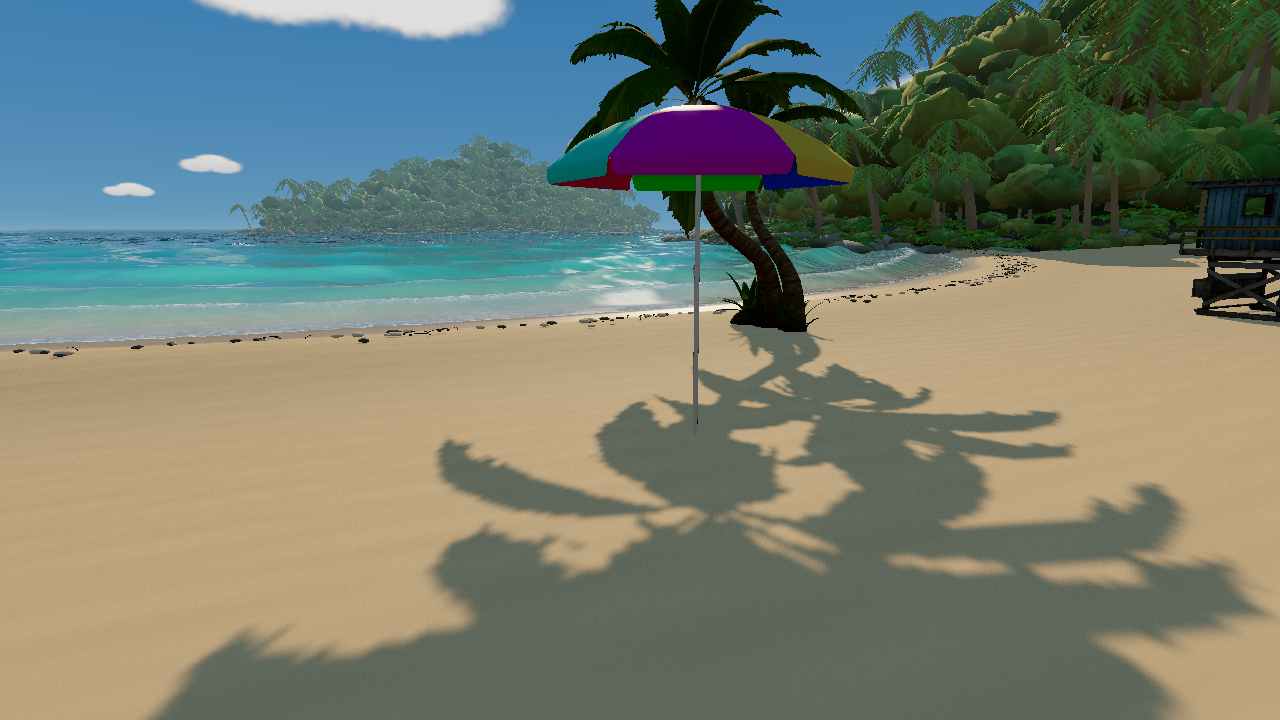
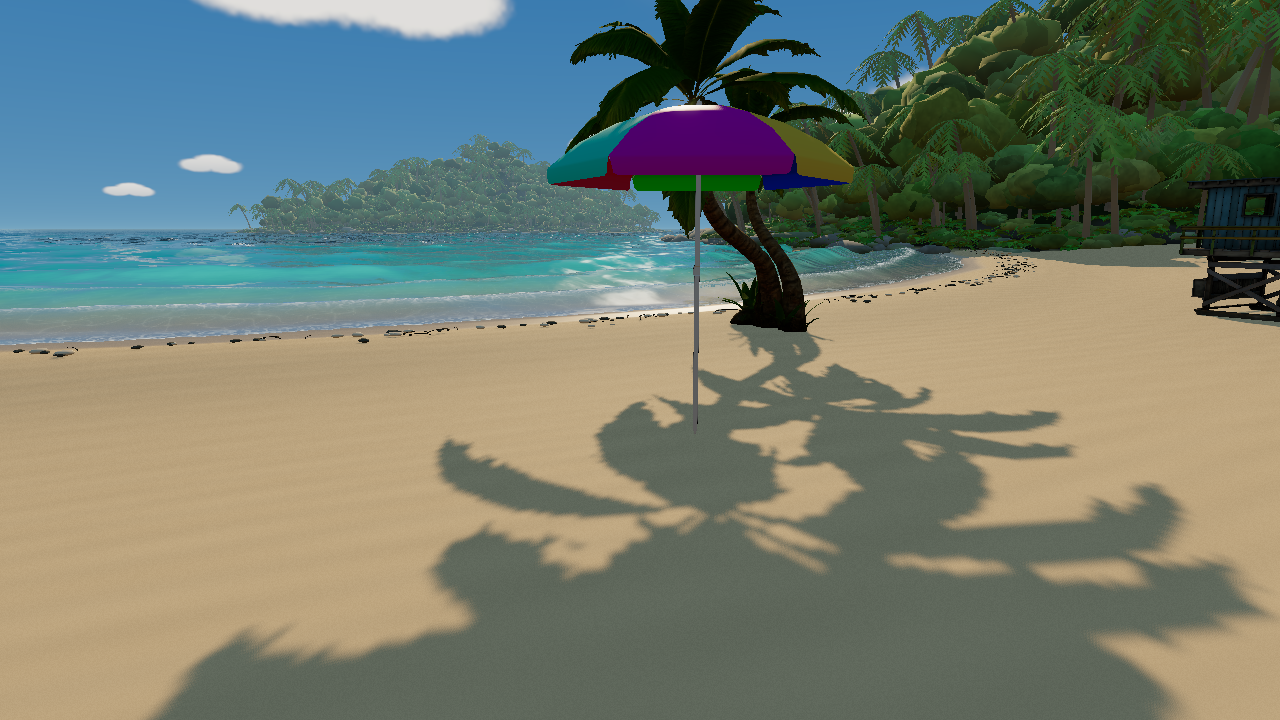
林緣植被依實際形狀擋人（灌木、地被植物、岩塊、樹幹畫進碰撞格）；淺水改半透明，約 1.6 m 內透出沙地與泡水的腳；涉水漣漪改為水面 shader 的細小波紋加碎泡沫，取代固定高度的白色圓環；重拍回歸截圖
Claude-Session: https://claude.ai/code/session_01USRpqyJ3nNu4mbR3gC6di4

Changed region(s): [[0.0, 0.4278, 0.375, 0.4889], [0.5312, 0.3667, 0.5938, 0.4278], [0.7188, 0.3361, 0.75, 0.3667]]

diff --git a/src/explore.js b/src/explore.js
@@ -1,6 +1,7 @@
 import * as T from 'three';
 import { groundHeight } from './terrain.js';
-import { landHeight, shoreClear } from './coast.js';
+import { surfaceHeight, WADE_RINGS } from './water.js';
+import { landHeight, islandHeight, shoreClear } from './coast.js';
 import { loadProps, propRoot } from './props.js';
 import './explore.css';
 
@@ -20,7 +21,9 @@ export function createExplore({ scene, camera, renderer, config, results, group,
   const shoes=[part(pants,-.15,.07,.045,.9,.25,1.35),part(pants,.15,.07,.045,.9,.25,1.35)];
   const arms=[part(skin,-.34,1.03,0,.65,1,.65),part(skin,.34,1.03,0,.65,1,.65)];
   const legs=[part(pants,-.15,.38,0,.85,1.1,.85),part(pants,.15,.38,0,.85,1.1,.85)];
-  const rings=[], ringGeo=new T.RingGeometry(.25,.29,24);for(let i=0;i<10;i++){const m=new T.Mesh(ringGeo,new T.MeshBasicMaterial({color:0xe5ffff,transparent:true,opacity:0,depthWrite:false,side:T.DoubleSide}));m.rotation.x=-Math.PI/2;m.visible=false;scene.add(m);rings.push({mesh:m,age:2});}
+  // Ripples round the legs in the water: the water shader spreads short waves from these points (x, z, time,
+  // strength), the feet in turn while walking, now and then while standing.
+  const wade=Array.from({length:WADE_RINGS},()=>new T.Vector4());let wadeNext=0,wadeFoot=0,waterMesh=null;
   let driven=false,gameCamera=null,groupChanged=null,movementSpeed=0,moveSpeed=0,moveAccel=0;const moveDir={x:0,z:0};
   let hold=false,active=false,photo=false,first=false,muted=false,yaw=.15,pitch=.08,velocityY=0,grounded=true,phase=0,splashTime=0,ringIndex=0,busy=false,desired=group;
   let colliders=[],currentResults=results, audio, gain;
@@ -29,9 +32,10 @@ export function createExplore({ scene, camera, renderer, config, results, group,
   // camera keep the whole-prop boxes in `colliders`.
   const CELL=.2,RADIUS=.26,blockCache=new WeakMap(),blocked=new Map(),key=(i,j)=>i*65536+j;
   const va=new T.Vector3(),vb=new T.Vector3(),vc=new T.Vector3(),vp=new T.Vector3(),instanceMatrix=new T.Matrix4(),world=new T.Matrix4();
-  function rasterise(marker){const cells=new Map();marker.updateMatrixWorld(true);
+  // keep(matrix): which instances of an InstancedMesh to include (all by default).
+  function rasterise(marker,keep=null){const cells=new Map();marker.updateMatrixWorld(true);
     marker.traverse(o=>{if(!o.isMesh||!o.visible)return;const pos=o.geometry.attributes.position,index=o.geometry.index,count=index?index.count:pos.count;
-      for(let n=0;n<(o.isInstancedMesh?o.count:1);n++){world.copy(o.matrixWorld);if(o.isInstancedMesh){o.getMatrixAt(n,instanceMatrix);world.multiply(instanceMatrix);}
+      for(let n=0;n<(o.isInstancedMesh?o.count:1);n++){world.copy(o.matrixWorld);if(o.isInstancedMesh){o.getMatrixAt(n,instanceMatrix);if(keep&&!keep(instanceMatrix))continue;world.multiply(instanceMatrix);}
         for(let t=0;t<count;t+=3){const ia=index?index.getX(t):t,ib=index?index.getX(t+1):t+1,ic=index?index.getX(t+2):t+2;
           va.fromBufferAttribute(pos,ia).applyMatrix4(world);vb.fromBufferAttribute(pos,ib).applyMatrix4(world);vc.fromBufferAttribute(pos,ic).applyMatrix4(world);
           if(Math.max(va.y,vb.y,vc.y)<-.5||Math.min(va.y,vb.y,vc.y)>4)continue;
@@ -39,7 +43,12 @@ export function createExplore({ scene, camera, renderer, config, results, group,
           for(let u=0;u<=steps;u++)for(let v=0;v<=steps-u;v++){vp.copy(va).multiplyScalar(1-(u+v)/steps).addScaledVector(vb,u/steps).addScaledVector(vc,v/steps);
             const h=vp.y-groundHeight(vp.x,vp.z);if(h<.12||h>1.85)continue;const k=key(Math.floor(vp.x/CELL),Math.floor(vp.z/CELL));cells.set(k,Math.max(cells.get(k)??-Infinity,vp.y));}}}});
     return cells;}
-  function rebuildBlocked(){blocked.clear();for(const marker of propRoot.children){if(!blockCache.has(marker))blockCache.set(marker,rasterise(marker));for(const [k,top] of blockCache.get(marker))blocked.set(k,Math.max(blocked.get(k)??-Infinity,top));}}
+  // The headland's plants, rocks and trunks block the same way, by their real shapes: only instances a walker on the
+  // beach can reach (inside the walk area, rooted at most 1.5 m above the sand), rasterised once.
+  let shoreCells=null;
+  function shoreBlocked(){if(shoreCells)return shoreCells;const plants=scene.getObjectByName('island-vegetation');
+    shoreCells=plants?rasterise(plants,m=>{const x=m.elements[12],z=m.elements[14];return x>33&&x<102&&z<29&&islandHeight(x,z)<groundHeight(x,z)+1.5;}):new Map();return shoreCells;}
+  function rebuildBlocked(){blocked.clear();for(const [k,top] of shoreBlocked())blocked.set(k,top);for(const marker of propRoot.children){if(!blockCache.has(marker))blockCache.set(marker,rasterise(marker));for(const [k,top] of blockCache.get(marker))blocked.set(k,Math.max(blocked.get(k)??-Infinity,top));}}
   // Distance from (x,z) to the nearest blocking cell the player is not standing above.
   function clearance(x,z){let best=Infinity;const r=Math.ceil(RADIUS/CELL)+1,ci=Math.floor(x/CELL),cj=Math.floor(z/CELL);
     for(let i=ci-r;i<=ci+r;i++)for(let j=cj-r;j<=cj+r;j++){const top=blocked.get(key(i,j));if(top===undefined||player.y>top+.05)continue;
@@ -92,7 +101,7 @@ export function createExplore({ scene, camera, renderer, config, results, group,
   drag($('#stick'),(x,y)=>{joyX=T.MathUtils.clamp(x/45,-1,1);joyY=T.MathUtils.clamp(y/45,-1,1);$('#stick i').style.transform=`translate(${joyX*30}px,${joyY*30}px)`;},()=>{joyX=joyY=0;$('#stick i').style.transform='';});
   let lastX=0,lastY=0;drag($('#look'),(x,y)=>{look(x-lastX,y-lastY);lastX=x;lastY=y;},()=>{lastX=lastY=0;});
   // Free space, or a move that gets out of a prop the player is already inside (e.g. after a teleport).
-  function allowed(x,z){if(x< -34||x>100||z>27||groundHeight(x,z)<-.65||x>35&&!shoreClear(x,z,RADIUS))return false;const next=clearance(x,z);return next>=RADIUS||next>clearance(player.x,player.z);}
+  function allowed(x,z){if(x< -34||x>100||z>27||groundHeight(x,z)<-.65||x>35&&!shoreClear(x,z))return false;const next=clearance(x,z);return next>=RADIUS||next>clearance(player.x,player.z);}
   function cameraBlocked(p){for(const c of colliders){const b=c.box;if(p.x>b.min.x-.2&&p.x<b.max.x+.2&&p.y>b.min.y-.2&&p.y<b.max.y+.2&&p.z>b.min.z-.2&&p.z<b.max.z+.2)return true;}return false;}
   function update(dt){dt=Math.min(dt,.05);let dx=0,dz=0;
     if(active&&!photo&&!busy&&!driven){const forward=hold?0:Number(keys.has('KeyW')||keys.has('ArrowUp'))-Number(keys.has('KeyS')||keys.has('ArrowDown'))-joyY,side=hold?0:Number(keys.has('KeyD'))-Number(keys.has('KeyA'))+joyX;yaw+=(Number(keys.has('ArrowLeft'))-Number(keys.has('ArrowRight')))*2.2*dt;const amount=Math.hypot(forward,side),norm=Math.max(1,amount),wet=groundHeight(player.x,player.z)<.02,target=amount>.01?(keys.has('ShiftLeft')||keys.has('ShiftRight')?4.5:1.8)*(wet?.42:1)*Math.min(1,amount):0;
@@ -109,7 +118,7 @@ export function createExplore({ scene, camera, renderer, config, results, group,
       if(dt>0)moveSpeed=Math.min(moveSpeed,Math.hypot(dx,dz)/dt+.05);
       // Walking downhill the ground drops faster than gravity pulls; stay snapped unless a jump launched us.
       const ground=groundHeight(player.x,player.z);if(grounded&&player.y-ground<.3){player.y=ground;velocityY=0;}else{velocityY-=9.8*dt;player.y=Math.max(ground,player.y+velocityY*dt);if(player.y===ground){velocityY=0;grounded=true;}else grounded=false;}
-      const moving=Math.hypot(dx,dz);phase+=moving*5;if(moving>.001){avatar.rotation.y=Math.atan2(dx,dz);if(wet&&(splashTime-=dt)<=0){const r=rings[ringIndex++%rings.length];r.age=0;r.mesh.position.set(player.x,.09,player.z);r.mesh.visible=true;splashTime=.22;}}
+      const moving=Math.hypot(dx,dz);phase+=moving*5;if(moving>.001){avatar.rotation.y=Math.atan2(dx,dz);}
       const swing=moving>.001?Math.sin(phase)*.55:0;const blend=1-Math.exp(-18*dt);arms[0].rotation.x=legs[1].rotation.x=T.MathUtils.lerp(arms[0].rotation.x,swing,blend);arms[1].rotation.x=legs[0].rotation.x=-arms[0].rotation.x;
     }
     movementSpeed=dt>0?Math.hypot(dx,dz)/dt:movementSpeed;
@@ -120,7 +129,11 @@ export function createExplore({ scene, camera, renderer, config, results, group,
       camera.position.y=Math.max(camera.position.y,landHeight(camera.position.x,camera.position.z)+.3);camera.lookAt(target);if(gameCamera&&!first)gameCamera.update(dt,player,yaw,pitch);
       let nearest=null,best=4;for(const c of colliders){const d=Math.hypot(Math.max(c.box.min.x-player.x,0,player.x-c.box.max.x),Math.max(c.box.min.z-player.z,0,player.z-c.box.max.z));if(d<best){best=d;nearest=c;}}
       if(nearest!==lastPoi||group!==lastPoiGroup){lastPoi=nearest;lastPoiGroup=group;poi.textContent=nearest?`${nearest.id} · ${labels[group]}${group==='A'?' · code-generated':` · ${nearest.slot.paths[group].split('/').at(-1)}`}`:'';poi.hidden=!nearest;}
-      for(const r of rings){if(r.age<1){r.age+=dt;r.mesh.scale.setScalar(1+r.age*3);r.mesh.material.opacity=(1-r.age)*.45;}else r.mesh.visible=false;}
+      waterMesh??=scene.getObjectByName('lagoon-water');
+      if(waterMesh?.material.uniforms.wadeRings){const t=waterMesh.material.uniforms.time.value,deep=surfaceHeight(player.x,player.z,t)-groundHeight(player.x,player.z);
+        if(deep>.03&&dt>0&&(splashTime-=dt)<=0){const pace=Math.hypot(moveDir.x,moveDir.z)*movementSpeed,side=wadeFoot++%2?.11:-.11,c=Math.cos(avatar.rotation.y),sn=Math.sin(avatar.rotation.y);
+          wade[wadeNext++%wade.length].set(player.x+c*side,player.z-sn*side,t,Math.min(1,deep*5)*(pace>.2?.55+.2*Math.min(pace,2.5):.3));splashTime=pace>.2?.3:1.1;}
+        for(const r of wade)if(t-r.z>2.4||r.z>t+1e-6)r.w=0;waterMesh.material.uniforms.wadeRings.value.forEach((u,i)=>u.copy(wade[i]));}
     }
   }
   camera.position.set(player.x+1,player.y+3,player.z+5);update(0);

diff --git a/src/water.js b/src/water.js
@@ -98,7 +98,7 @@ vec2 swellState(vec2 p,float t){
 }
 `;
 
-export const WAKE_RINGS=24;
+export const WAKE_RINGS=24,WADE_RINGS=10;
 const grid={xs:null,ds:null};
 function waterGeometry() {
  // Preserve the terrain entirely. Only the water mesh follows the coast, with
@@ -129,6 +129,13 @@ export function createWater(sun) {
  // boat speed; 0 switches it off). A ring of small waves spreads from each; together they draw the V behind the boat (a kinematic wake:
  // circles emitted along the path). Shading only: the surface itself does not move.
  water.material.uniforms.wakeRings={value:Array.from({length:WAKE_RINGS},()=>new THREE.Vector4())};
+ // Ripples round a walker's legs in the water (set by src/explore.js): x, z, time, strength (0 switches it off).
+ // Short waves (about 35 cm) that run out at walking pace and die within a couple of seconds. Shading only.
+ water.material.uniforms.wadeRings={value:Array.from({length:WADE_RINGS},()=>new THREE.Vector4())};
+ // Shallow water is see-through: the real sand and whatever stands in it (legs, the ball, a hull) show under it,
+ // tinted by the water and fading out by about 1.6 m deep. Premultiplied: the shader writes the water's own light
+ // and how much of what lies under it still comes through.
+ water.material.transparent=true;water.material.premultipliedAlpha=true;water.material.depthWrite=true;
  water.material.vertexShader=`
  uniform mat4 textureMatrix;uniform float time;
  varying vec4 mirrorCoord;varying vec4 worldPosition;
@@ -156,7 +163,7 @@ export function createWater(sun) {
  }`;
  water.material.fragmentShader=`
  uniform mat4 textureMatrix;uniform sampler2D mirrorSampler;uniform float time;uniform vec3 eye;uniform vec3 sunDirection;uniform vec3 sunColor;
- uniform vec4 wakeRings[${WAKE_RINGS}];
+ uniform vec4 wakeRings[${WAKE_RINGS}];uniform vec4 wadeRings[${WADE_RINGS}];
  varying vec4 mirrorCoord;varying vec4 worldPosition;varying vec3 vWaveNormal;varying vec2 vWaterRest;
  #include <common>
  #include <fog_pars_fragment>
@@ -191,10 +198,15 @@ export function createWater(sun) {
   vec2 small=fineSlope(worldPosition.xz,distanceToEye)*mix(.25,1.,smoothstep(-1.,6.,coast));
   // Wake ripples: crests about 0.9 m apart; each ring runs out at a third of the boat's speed, so the rings
   // together keep the Kelvin wake's ~19.5° V at any speed. Weaker as they spread and age.
-  vec2 rip=vec2(0.);
+  vec2 rip=vec2(0.);float wadeFoam=0.;
   for(int i=0;i<${WAKE_RINGS};i++){vec4 r=wakeRings[i];if(r.w<=.3)continue;vec2 q=worldPosition.xz-r.xy;float dist=length(q),age=time-r.z;
    float x=dist-min(.34*r.w,3.)*age;if(age<0.||abs(x)>2.||dist<.01)continue;
    float env=clamp((r.w-.3)/2.5,0.,1.)*exp(-x*x*1.4)*exp(-age*.35)/(1.+.12*dist);rip+=q/dist*cos(x*7.)*.55*env;}
+  for(int i=0;i<${WADE_RINGS};i++){vec4 r=wadeRings[i];if(r.w<=0.)continue;vec2 q=worldPosition.xz-r.xy;float dist=length(q),age=time-r.z;
+   float x=dist-.12-.42*age;if(age<0.||age>2.4||abs(x)>.5||dist<.01)continue;
+   float env=r.w*exp(-x*x*16.)*exp(-age*1.1)/(1.+1.5*dist);rip+=q/dist*sin(x*18.)*.6*env;
+   // A broken ring of foam pushed out by the leg, gone within a second.
+   wadeFoam=max(wadeFoam,r.w*exp(-x*x*110.)*exp(-age*2.6)*smoothstep(.25,.55,waterNoise(worldPosition.xz*9.+r.z*7.)));}
   small+=rip;
   vec3 N=normalize(vWaveNormal+vec3(-small.x,0.,-small.y));
   N=mix(N,normalize(vec3(-small.x,1.,-small.y)),smoothstep(-.1,1.,d));
@@ -227,7 +239,9 @@ export function createWater(sun) {
   bottom*=1.+caustic*.14*exp(-depth*.55);
   vec3 transmission=exp(-vec3(.85,.24,.16)*path);
   vec3 waterTint=mix(vec3(.008,.44,.50),vec3(.006,.075,.14),1.-exp(-depth*.055));
-  vec3 sea=bottom*transmission+waterTint*(1.-transmission);
+  vec3 sea=bottom*transmission+waterTint*(1.-transmission),sea0=sea;
+  // The same water over the real bottom: its own light only (the caustics added on), the bottom left to the blend.
+  vec3 seaClear=waterTint*(1.-transmission)+vec3(.62,.53,.39)*caustic*.14*exp(-depth*.55)*transmission;
   float crestTint=smoothstep(.03,.32,worldPosition.y)*(1.-smoothstep(10.,35.,coast));
   sea+=vec3(.005,.038,.027)*crestTint*max(dot(V,-sunDirection),0.);
   // Light through the swell: a wave's upper part is thin enough for sunlight to come through it green-blue, most
@@ -236,13 +250,14 @@ export function createWater(sun) {
   float thin=smoothstep(-.12,.35,swell.x)*smoothstep(0.,6.,coast);
   float backlit=pow(max(dot(normalize(vec3(-V.x,0.,-V.z)),normalize(vec3(sunDirection.x,0.,sunDirection.z))),0.),3.);
   sea+=vec3(.03,.3,.23)*thin*thin*(.3+.7*backlit)*(1.-fresnel);
-  vec3 color=mix(sea,reflected,clamp(fresnel,0.,.97));
+  seaClear+=sea-sea0;float Fc=clamp(fresnel,0.,.97);
+  vec3 color=mix(sea,reflected,Fc),colorClear=mix(seaClear,reflected,Fc);
   // Seen from above the water shows mostly its own colour, so a ripple's slope would hardly show: the faces
   // tilted towards the eye catch more sky and read lighter, the others darker.
-  color+=vec3(.05,.09,.1)*clamp(dot(rip,normalize(-V.xz+1e-4))*2.5,-1.,1.);
+  vec3 lit=vec3(.05,.09,.1)*clamp(dot(rip,normalize(-V.xz+1e-4))*2.5,-1.,1.);
   vec3 H=normalize(V+sunDirection);
   float glitter=pow(max(dot(N,H),0.),420.);
-  color+=sunColor*glitter*.85;
+  lit+=sunColor*glitter*.85;color+=lit;colorClear+=lit;
   // A broken leading crest and a lace-like aerated wake, only in shallow water.
   float phase=surfPhase(p,time);
   float behind=mod(phase-1.10+6.283185,6.283185);
@@ -266,10 +281,11 @@ export function createWater(sun) {
   float capLace=foamLace(p*.8+vec2(0.,time*.15)),far=smoothstep(60.,220.,distanceToEye);
   float detail=mix(capLace,.5,far);
   float whitecap=patches*(smoothstep(.15,.5,squeeze*detail)+earlier*smoothstep(.35,.75,detail)*.4)*smoothstep(6.,20.,coast);
-  foam=max(foam,whitecap*.85);
+  foam=max(foam,whitecap*.85);foam=max(foam,wadeFoam*.9);
   vec3 foamColor=vec3(.88,.96,.94)*(.80+.24*max(dot(N,sunDirection),0.));
-  color=mix(color,foamColor,clamp(foam,0.,.94));
-  gl_FragColor=vec4(color,1.);
+  float fm=clamp(foam,0.,.94);color=mix(color,foamColor,fm);colorClear=mix(colorClear,foamColor,fm);
+  float clear=1.-smoothstep(.3,1.6,depth),through=.85*clear*dot(transmission,vec3(.2,.4,.4))*(1.-Fc)*(1.-fm);
+  gl_FragColor=vec4(mix(color,colorClear,.85*clear),1.-through);
   #include <tonemapping_fragment>
   #include <colorspace_fragment>
   #include <fog_fragment>

diff --git a/src/vegetation.js b/src/vegetation.js
@@ -129,7 +129,7 @@ function foliageMaterial(){
 
 // Plant islands into shared instanced meshes: plant() once per island, then finish().
 export function createVegetation(group){
- const lists={crownNear:[],crownFar:[],shrub:[],palm:[],trunk:[],boulder:[],plant:[]},obstacles=[];
+ const lists={crownNear:[],crownFar:[],shrub:[],palm:[],trunk:[],boulder:[],plant:[]};
  // shape(x,z): the island's height at local (x, z); rock(x,z,y): bare rock there; detail 'near' or 'far'.
  function plant({cx,cz,rx,rz,shape,rock,seed,detail,counts}){
   const r=rng(seed),o=new THREE.Object3D(),color=new THREE.Color();
@@ -152,13 +152,13 @@ export function createVegetation(group){
   // Coconut palms: many along the shore, leaning downhill towards the water, and scattered up the slopes standing
   // out of the canopy.
   for(let i=0;i<counts.palm;i++){const p=pick((x,z,y)=>{const e=(x/rx)**2+(z/rz)**2;return i%3===0?y>4&&slope(x,z)<1.3:y>.6&&y<8&&e>.5&&slope(x,z)<1.4;});if(!p)continue;const [x,z,y]=p,shore=i%3!==0;
-   obstacles.push([cx+x,cz+z,.3]);put(lists.palm,(o,c)=>{const h=shore?7+r()*5:12+r()*6;o.position.set(cx+x,y-.3,cz+z);o.scale.setScalar(h);
+   put(lists.palm,(o,c)=>{const h=shore?7+r()*5:12+r()*6;o.position.set(cx+x,y-.3,cz+z);o.scale.setScalar(h);
     // The trunk bends towards local +x: turn that downhill, then lean a little more that way (more on the shore).
     o.rotation.set(0,0,0);o.rotateY(downhill(x,z)+(r()-.5)*.6);o.rotateZ(-(shore?.08+r()*.22:r()*.08));const k=.95+r()*.3;c.setRGB(k,k,k*.92);});}
   // Boulders scattered along the water line (inside the island's outline: outside it the height is flat, buried
   // under the beach or out at sea), some half in the water: weed round the foot, some green all over.
   for(let i=0;i<(counts.boulder||0);i++){const p=pick((x,z,y)=>y>-.6&&y<1.6&&(x/rx)**2+(z/rz)**2<.99);if(!p)continue;const [x,z,y]=p;
-   put(lists.boulder,(o,c)=>{const s=.5+r()**2*2.2,sx=s*(1+r()*.5),sy=s*(.6+r()*.5),sz=s*(1+r()*.4);obstacles.push([cx+x,cz+z,Math.max(sx,sz)*.9]);o.position.set(cx+x,y-s*.15,cz+z);o.scale.set(sx,sy,sz);o.rotation.set((r()-.5)*.3,r()*6.3,(r()-.5)*.3);const k=.8+r()*.4;if(r()<.25)c.setRGB(k*.85,k*1.02,k*.75);else c.setRGB(k,k,k);});}
+   put(lists.boulder,(o,c)=>{const s=.5+r()**2*2.2,sx=s*(1+r()*.5),sy=s*(.6+r()*.5),sz=s*(1+r()*.4);o.position.set(cx+x,y-s*.15,cz+z);o.scale.set(sx,sy,sz);o.rotation.set((r()-.5)*.3,r()*6.3,(r()-.5)*.3);const k=.8+r()*.4;if(r()<.25)c.setRGB(k*.85,k*1.02,k*.75);else c.setRGB(k,k,k);});}
   // Leafy ground plants: a thick fringe along the forest edge spilling onto the sand, and some in the gaps under
   // the canopy and between the rocks.
   for(let i=0;i<(counts.plant||0);i++){const p=pick((x,z,y)=>i%4===0?y>2&&y<12&&slope(x,z)<1.5:y>.15&&y<3.2&&slope(x,z)<1.6);if(!p)continue;const [x,z,y]=p;
@@ -173,6 +173,5 @@ export function createVegetation(group){
    for(const m of meshes){m.instanceMatrix.needsUpdate=true;if(m.instanceColor)m.instanceColor.needsUpdate=true;m.computeBoundingSphere();}}
   return Object.fromEntries(Object.entries(lists).map(([k,v])=>[k,v.length]));
  }
- // Palm trunks and boulders as circles [x, z, radius], for walkers along the shore (src/coast.js landHeight()).
- return {plant,finish,obstacles};
+ return {plant,finish};
 }

diff --git a/src/coast.js b/src/coast.js
@@ -2,21 +2,16 @@ import * as THREE from 'three';
 import { shore, groundHeight } from './terrain.js';
 import { createVegetation, haze } from './vegetation.js';
 // Shared landscape details, deliberately outside the experimental prop root.
-// The islands' heights (local shape per island) and their palm trunks and boulders, filled by addCoastDetails(), so
-// walkers can reach the headland's forest edge along the sand without walking into the hill.
-const islands=[],obstacles=[];
+// The islands' heights (local shape per island), filled by addCoastDetails(), so walkers can reach the headland's
+// forest edge along the sand without walking into the hill (its plants, rocks and trunks block in src/explore.js).
+const islands=[];
 export const islandHeight=(x,z)=>{let y=-Infinity;for(const i of islands){const lx=x-i.cx,lz=z-i.cz;if((lx/i.rx)**2+(lz/i.rz)**2<1)y=Math.max(y,i.shape(lx,lz));}return y;};
 // The ground a walker or camera stands on: the beach or, where it rises out of the sand, an island.
 export const landHeight=(x,z)=>Math.max(groundHeight(x,z),islandHeight(x,z));
-// Can a walker stand here? Not where the island rises more than 15 cm out of the sand (the forest edge) or on a palm
-// trunk or boulder (radius: the walker's).
-export function shoreClear(x,z,radius){
- if(islandHeight(x,z)>groundHeight(x,z)+.15)return false;
- for(const [ox,oz,r] of obstacles)if((x-ox)**2+(z-oz)**2<(r+radius)**2)return false;
- return true;
-}
+// Can a walker stand here? Not where the island rises more than 15 cm out of the sand (the forest edge).
+export const shoreClear=(x,z)=>islandHeight(x,z)<=groundHeight(x,z)+.15;
 export function addCoastDetails(scene) {
- islands.length=obstacles.length=0;
+ islands.length=0;
  let seed=7921;
  const rand=()=>{seed=(1664525*seed+1013904223)>>>0;return seed/4294967296;};
  const land=new THREE.Group();land.name='shared-coastal-landforms';scene.add(land);
@@ -47,8 +42,6 @@ export function addCoastDetails(scene) {
  const vegetation=createVegetation(plants);
  for(const [cx,cz,rx,rz,h,detail,counts,seed] of list){const {shape,rock}=hill(cx,cz,rx,rz,h);islands.push({cx,cz,rx,rz,shape});vegetation.plant({cx,cz,rx,rz,shape,rock,seed,detail,counts});}
  vegetation.finish();
- // Only the trunks and boulders a walker on the sand can reach.
- obstacles.push(...vegetation.obstacles.filter(([x,z,r])=>z>-60&&islandHeight(x,z)<groundHeight(x,z)+.15+r));
  const debris=new THREE.Group();debris.name='shared-tide-debris';scene.add(debris);
  const geometries=[new THREE.SphereGeometry(1,7,4),new THREE.IcosahedronGeometry(1,0),new THREE.TorusGeometry(1,.12,4,7,3.5)];
  const materials=[new THREE.MeshStandardMaterial({color:0xeee1c8}),new THREE.MeshStandardMaterial({color:0x6e7167}),new THREE.MeshStandardMaterial({color:0x494333})];

diff --git a/CLAUDE.md b/CLAUDE.md
@@ -86,6 +86,8 @@ There is no lint or unit-test setup. Verification means running the Playwright s
   - `src/terrain.js` `shore(x)` and `groundHeight(x,z)` are used by JS, by the shaders (`shoreGLSL`), by explore and game collision, and by the recorders.
   - `src/water.js` also exports CPU mirrors `sampleWater()` and `swashReach()`, which drive game buoyancy and footprints.
   - Shading-only wave detail (since 2026-10-21, same for all groups; blind scores and REPORT predate it): `swellState()` in the water fragment shader re-evaluates the four Gerstner waves per pixel (the offshore mesh is too coarse), for light through the swell (green-blue, most when backlit) and whitecaps where the crest is squeezed tightest (Jacobian), in patches, with foam left behind for a moment. The game's rowboat feeds `wakeRings` (24 stern points: x, z, time, speed; `WAKE_RINGS`): each spreads a ring of small ripples at a third of the boat's speed, which together keep the Kelvin wake's V; shading only, the surface does not move, so the CPU mirrors are unchanged.
+  - Shallow water is see-through (since 2026-10-22, all groups): the water material is transparent with premultiplied alpha; up to about 1.6 m deep it writes only its own light (tint, caustics, reflection, foam) and lets the real sand and whatever stands in it (legs, the ball, a hull) through, tinted, 85% at most. Deeper it is opaque as before, so the open-sea animals still show only at the surface.
+  - Wading (`src/explore.js`, game and explore alike): while the walker stands in water, the feet in turn feed `wadeRings` (10 points: x, z, time, strength; `WADE_RINGS`): short ripples (about 35 cm) running out at walking pace and a broken foam ring, gone within a couple of seconds; shading only. They replaced flat white ring meshes fixed at y 0.09.
   - All animation must derive from one time value so offline rendering is deterministic.
 - **Determinism and automation hooks.** These are what the recorders and verifiers use; keep them working.
   - `window.__SCENE__` (`{scene, camera, renderer, water, …}`) and `window.__READY__`.
@@ -134,7 +136,7 @@ There is no lint or unit-test setup. Verification means running the Playwright s
   - `haze()` (exported from `vegetation.js`): island materials fade towards the fog colour past ~80 m, much more than the scene's thin fog, so the far island reads as far.
   - The terrain grid and the old blob trees used to draw from the coast's shared seed; `hill()` still draws the same numbers over the old shape, so the tide debris on the beach is unchanged (checksum of its instance matrices).
   - The sky adds about 20 small cumulus low around the horizon to the four big clouds.
-  - Walking to the headland: the walk area runs along the beach to x 100, so the near island's forest edge can be reached. `coast.js` exports `islandHeight()`, `landHeight()` (beach or island, whichever is higher; used by the explore and game cameras) and `shoreClear(x,z,radius)` (false where the island rises over 15 cm out of the sand, or on a palm trunk or boulder that a walker on the sand can reach). Nothing grows where the island's edge runs under the beach sand, or outside its outline (boulders there used to be buried under the sand yet block walkers, or float out at sea). `verify-game` walks to it (shot `headland.png`).
+  - Walking to the headland: the walk area runs along the beach to x 100, so the near island's forest edge can be reached. `coast.js` exports `islandHeight()`, `landHeight()` (beach or island, whichever is higher; used by the explore and game cameras) and `shoreClear(x,z)` (false where the island rises over 15 cm out of the sand). The headland's plants, shrubs, rocks and trunks block by their real shapes: `src/explore.js` rasterises the vegetation instances a walker on the beach can reach (inside the walk area, rooted at most 1.5 m above the sand) into the same 0.2 m cells as the props, once. Nothing grows where the island's edge runs under the beach sand, or outside its outline (boulders there used to be buried under the sand yet block walkers, or float out at sea). `verify-game` walks to it (shot `headland.png`).
 - **Shadows.** The sun is low (about 22°). The shadow camera's depth range is set to the scene (near 5, far 200) with bias -.00005 and normalBias .03, map 4096: the old default range made bias -.0004 about 20 cm, so shadows started ~0.5 m from prop bases and props looked afloat.
 - **Game boat in the water.** The clone floats with a draft (keel a quarter of the hull height, 12–25 cm, under the water line; height and tilt fit the water at bow, stern and both sides, since near the shore a hull levelled at its centre had water 15 cm over its inside). The heights come from `surfaceHeight()` in `src/water.js`, the water as drawn: offshore the water mesh rows are 10–16 m apart, so the flat triangles stray 20–30 cm from the exact field (`sampleWater`), and every ten seconds or so a crest covered the whole inside of a hull that followed the exact field. A depth-only cap over the hull's inside (20 cm above the water line, `renderOrder` 1, water 2) keeps the opaque water plane from showing inside the hull; the water stays at least 8 cm under it along the whole route. The hull's long axis comes from the vertex spread (C's oars skewed the box) and the narrower end is the bow (B and C ran transom first before); the rower takes a thwart clear of the floor in the aft half, so the legs have room before the bow narrows. Its materials are double-sided (C's single-skin hull showed the sea from inside).
 - **Bloom guard.** `src/main.js` runs a pass before bloom that turns NaN/Inf pixels to black and caps values at 1e4; otherwise one bad pixel (seen near A's palm_pair in game mode) spreads over the whole frame and the verifier sees an "empty" frame. Normal pixels are unchanged (A stills match to 1 level).

diff --git a/NOTES.md b/NOTES.md
@@ -292,3 +292,4 @@ Open **http://localhost:5191/game.html** (also linked as **遊戲模式** on the
 - **小島外形與植被對照意象圖（2026-10-21）**：用 Codex 只看文字描述畫了三張意象圖（沙灘遠景、海上看遠島、俯瞰岬角，`~/explainer-videos/beach3d-eval/island-concept/`），跟現況對照，差最多的是外形與植被尺度：原本是平頂、四周一圈黑色岩壁、樹冠又大又少（像長滿花椰菜的平台）。修改：`hill()` 改成圓丘（水邊平緩、往偏離中心的山頂升高），岩石只留水邊一圈斷續的濕岩帶和最陡的坡面；樹冠改小、數量約 4 倍（每島約 3000 顆）並墊高成一層林冠，顏色提亮成向光的黃綠到橄欖綠，少數深色；坡上的椰子樹加高到冒出林冠，岸邊椰子樹往海傾；水邊散落岩塊；島的材質過了約 80 m 往霧色淡出（`haze()`），遠島看起來比較遠；天空多約 20 朵靠近地平線的小積雲。碎貝殼位置不變（校驗和相同）。植被三角形 64 萬 → 187 萬，wide 鏡頭 GPU 每幀約 1.09 → 1.20 ms。還沒做的：淺水珊瑚暗影、林緣灌木伸到沙上。三組共用，盲評分數與 REPORT 是之前的畫面。
 - **小島林緣植物與綠礁石（2026-10-22）**：島上原本只有椰子樹、球狀樹冠和灌木，沒有一般的植物；水邊岩塊是單純的灰石頭。加了大葉的地被植物（闊葉蓮座：拱起的葉柄、寬葉，類似海葡萄、姑婆芋；細長的帶狀葉扇形展開，類似林投幼株），沿林緣長成一圈、伸到沙上，林下空隙與岩石間也有一些（近島 1300、遠島 900 株）。岩塊底部加一圈深綠色海藻（水打濕的位置），頂上有苔斑，約四分之一整顆偏綠。三組共用。
 - **走到岬角近看、推船可以往回拉（2026-10-22）**：走路範圍原本到 x 35 為止，右側岬角（近島）走不到。現在沙灘一路走到 x 100，可以走到岬角的林緣，站在岩塊、大葉植物和椰子樹旁邊；島坡從沙裡升起超過 15 cm 的地方、椰子樹幹與岩塊會擋人，所以進不了林子。鏡頭碰撞也把島坡算進去。順帶修正：水邊岩塊原本在島外框外面也會取樣（那裡高度固定 −0.5），有的埋在海灘沙底下還會擋人，有的散在外海浮在水上；現在只放在島的範圍內、且不放在被沙蓋住的地方（地被植物、椰子樹同）。推船時原本只能按 W 往前推，船撞到躺椅或洋傘就卡住；現在按住 S 會倒退著把船往回拉（約 0.9 m/s，腳步動畫倒著播），拉的同時按 A/D 可轉向，提示改成「按住 W 把船推進水深處 · S 往回拉」。`verify-game` 加了往回拉與走到岬角兩項檢查。
+- **林緣碰撞、淺水透明與涉水漣漪（2026-10-22）**：林緣原本只有椰子樹幹和岩塊用圓形近似擋人，灌木和大葉植物會被穿過去。現在把走得到範圍內的植被實例（灌木、地被植物、岩塊、樹幹）用實際三角形畫進跟道具同一張 0.2 m 碰撞格，0.12–1.85 m 高的部分會擋人。水面原本完全不透明，淺水下的沙是 shader 算出來的，腳一進水就看不見；現在水面改成半透明（premultiplied alpha），約 1.6 m 深以內透出真正的沙地與泡在水裡的腳、球、船身，帶水色，最多透 85%；更深維持不透明。原本涉水時每 0.22 秒在身體中心放一圈固定在 y=0.09 的白色細環，看起來很假；改成兩腳輪流在水面 shader 產生約 35 cm 波長的細小漣漪，加一圈破碎的泡沫，兩秒內消失（`wadeRings`，只改著色）。三組共用。
